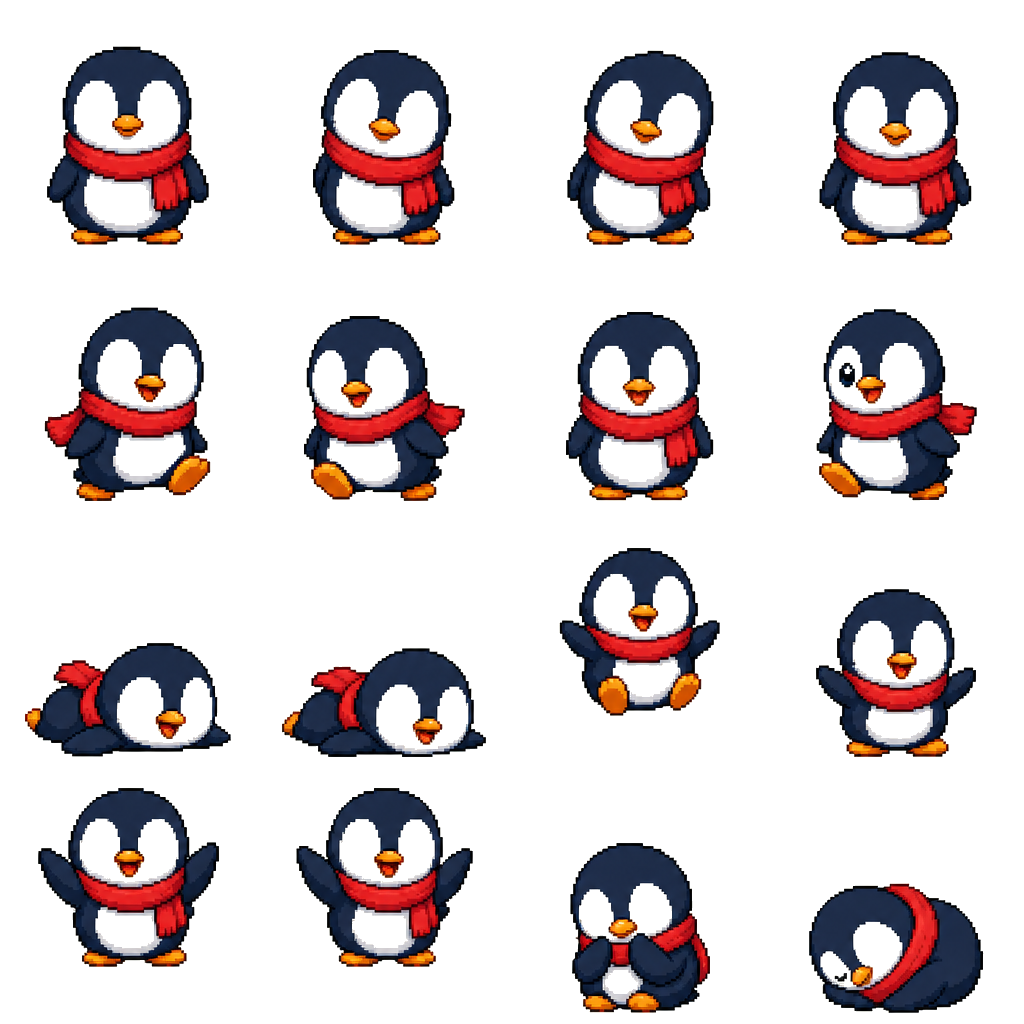
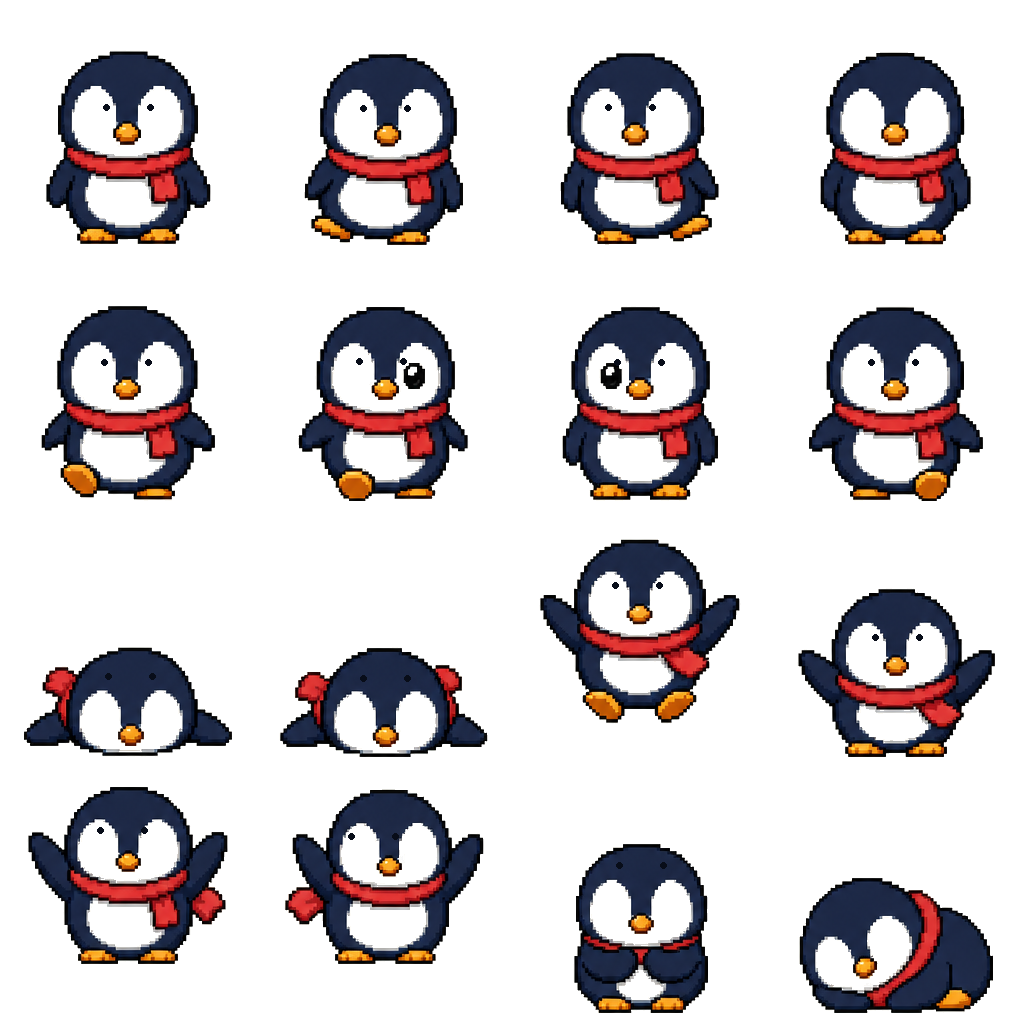
fix(piru): cara frontal con pupilas visibles y barriga blanca opaca delimitada

diff --git a/app/src/main/java/com/pixelpals/app/PetView.kt b/app/src/main/java/com/pixelpals/app/PetView.kt
@@ -104,7 +104,7 @@ class PetView(
         PetType.DIABLILLO -> 0.929f     // idle 0.863 -> 0.802
         PetType.PATITO -> 1.317f        // ciclo idle 0.36-0.60 (irregular por diseño)
         PetType.YUKI -> 1.208f          // idle yuki_0 0.664 -> 0.802
-        PetType.PIRU -> 1.032f          // idle piru v2 0.777 -> 0.802
+        PetType.PIRU -> 1.053f          // idle piru v4 0.762 -> 0.802
         PetType.TARO -> 1.316f          // idle taro_0 0.609 -> 0.802
         PetType.MENTA -> 0.90f          // más pequeña: el usuario la veía muy grande (0.688 idle)
         PetType.TELA -> 0.960f          // idle tela_0 0.836 -> 0.802
@@ -126,7 +126,7 @@ class PetView(
         PetType.DIABLILLO -> 0.875f     // idle (idx 0)
         PetType.PATITO -> 0.5951f       // ciclo natación (idx 0)
         PetType.YUKI -> 0.6641f         // idle wobble (idx 0)
-        PetType.PIRU -> 0.7773f         // idle waddle (idx 0), atlas v2 opaco
+        PetType.PIRU -> 0.7617f         // idle frontal con ojos/panza opaca (idx 0), atlas v4
         PetType.TARO -> 0.6094f         // idle peek (idx 0)
         PetType.MENTA -> 0.8711f         // idle largo (idx 0), storyboard corporal v4
         PetType.TELA -> 0.8359f         // idle colgando (idx 0)
@@ -151,7 +151,7 @@ class PetView(
         PetType.ANGEL -> floatArrayOf(0.9167f, 0.9167f, 0.9167f, 0.7891f, 0.9167f, 0.9167f, 0.7266f, 0.8802f, 0.9167f, 0.9167f, 0.9167f, 0.9167f, 0.9167f, 0.8724f, 0.9167f, 0.9167f)
         PetType.GINGER -> floatArrayOf(0.9167f, 0.9167f, 0.5703f, 0.6484f, 0.6536f, 0.6615f, 0.6667f, 0.6615f, 0.2682f, 0.3229f, 0.2812f, 0.3542f, 0.4531f, 0.4245f, 0.6432f, 0.5365f)
         PetType.YUKI -> floatArrayOf(0.6641f, 0.6719f, 0.6641f, 0.6641f, 0.6797f, 0.6797f, 0.8672f, 0.8516f, 0.6602f, 0.6602f, 0.6602f, 0.6602f, 0.4883f, 0.4883f, 0.4805f, 0.5078f)
-        PetType.PIRU -> floatArrayOf(0.7773f, 0.7617f, 0.7617f, 0.7539f, 0.7578f, 0.7227f, 0.7383f, 0.7500f, 0.4453f, 0.4258f, 0.6562f, 0.6562f, 0.6992f, 0.6992f, 0.6641f, 0.5078f)
+        PetType.PIRU -> floatArrayOf(0.7617f, 0.7500f, 0.7539f, 0.7539f, 0.7656f, 0.7578f, 0.7617f, 0.7617f, 0.4297f, 0.4297f, 0.7227f, 0.6602f, 0.6914f, 0.6836f, 0.6602f, 0.5273f)
         PetType.TARO -> floatArrayOf(0.6094f, 0.5781f, 0.6055f, 0.6055f, 0.5664f, 0.5664f, 0.5898f, 0.5664f, 0.6445f, 0.5664f, 0.5938f, 0.6641f, 0.4688f, 0.4688f, 0.4688f, 0.4688f)
         PetType.MENTA -> floatArrayOf(0.8711f, 0.8828f, 0.8828f, 0.8320f, 0.3086f, 0.3164f, 0.2617f, 0.2852f, 0.3164f, 0.3125f, 0.8164f, 0.8125f, 0.8633f, 0.8672f, 0.6016f, 0.8789f)
         PetType.TELA -> floatArrayOf(0.8359f, 0.8555f, 0.8281f, 0.8398f, 0.7969f, 0.8633f, 0.8203f, 0.8711f, 0.7969f, 0.7891f, 0.7891f, 0.8125f, 0.7461f, 0.7539f, 0.7695f, 0.8047f)
